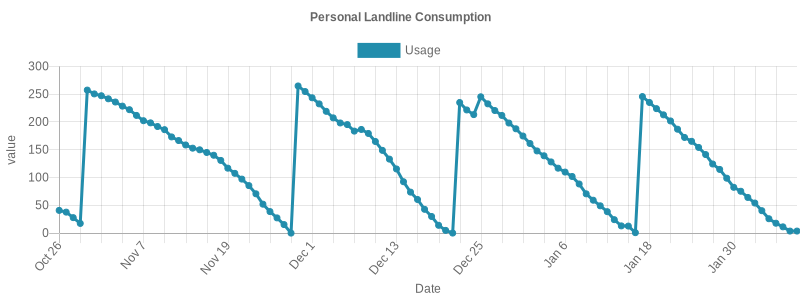
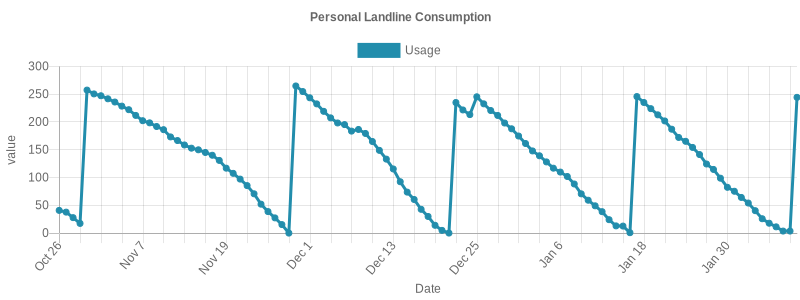
update logs

diff --git a/quota-logs/README.md b/quota-logs/README.md
@@ -104,3 +104,4 @@
 ## Tue Feb 06 2024 00:34:37 GMT+0200|11.26/250
 ## Wed Feb 07 2024 00:34:38 GMT+0200|3.65/250
 ## Thu Feb 08 2024 00:35:50 GMT+0200|3.66/260
+## Fri Feb 09 2024 00:34:31 GMT+0200|244.33/260
